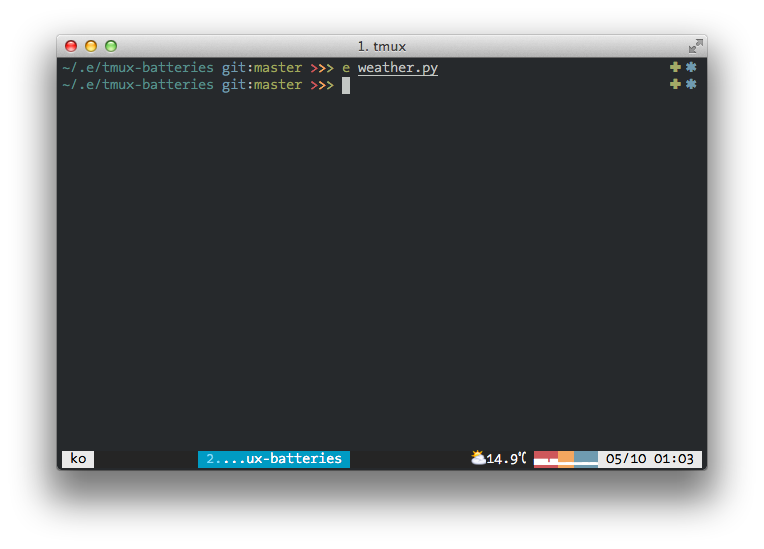
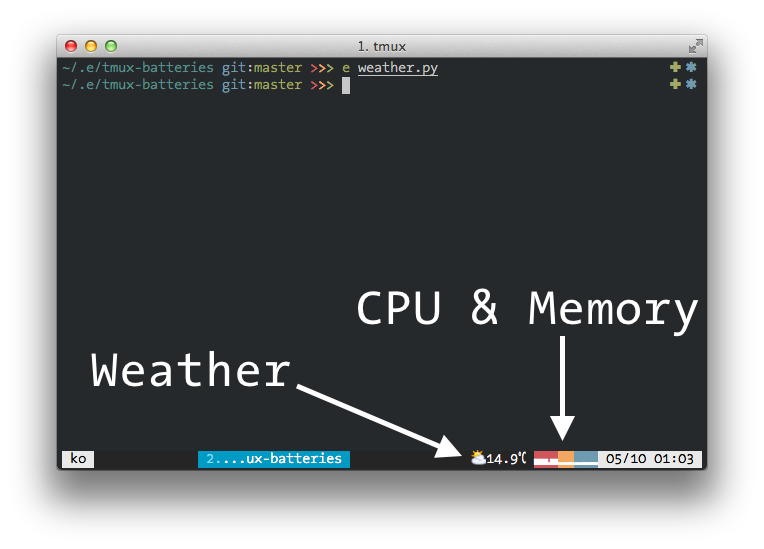
Update README with a screenshot

diff --git a/README.md b/README.md
@@ -2,3 +2,8 @@ tmux-batteries
 ==============
 
 A set of status indicators for tmux.
+
+Screenshots
+-----------
+
+![GitHub Logo](/screenshots/1.png)
